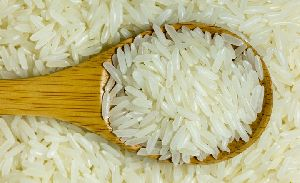
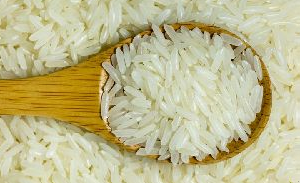
magnify

diff --git a/src/components/ImageMagnifier.js b/src/components/ImageMagnifier.js
@@ -1,33 +1,101 @@
-import React, { useEffect, useRef, useState } from 'react'
+import React, { useEffect} from 'react'
 
-export default function ImageMagnifier({ imageUrl, zoomFactor = 2 }) {
+
+
+export default function ImageMagnifier() {
     
+  // const handleMouseEnter = (event) => {
+  //   const image = event.target;
+  //   image.style.transform = `scale(${magnifyScale})`;
+  // };
 
+  // const handleMouseLeave = (event) => {
+  //   const image = event.target;
+  //   image.style.transform = 'scale(1)';
+  // };
 
+  // const [isMagnified, setMagnified] = useState(false);
+  // const [cursorPosition, setCursorPosition] = useState({ x: 0, y: 0 });
 
-    const [cursorPosition, setCursorPosition] = useState({ x: 0, y: 0 });
-    const imageRef = useRef(null);
-    const magnifierRef = useRef(null);
+  // const handleMouseMove = (e) => {
+  //   setCursorPosition({ x: e.nativeEvent.offsetX, y: e.nativeEvent.offsetY });
+  // };
+
+  // const handleMouseEnter = () => {
+  //   setMagnified(true);
+  // };
+
+  // const handleMouseLeave = () => {
+  //   setMagnified(false);
+  // };
+
+    // const [cursorPosition, setCursorPosition] = useState({ x: 0, y: 0 });
+    // const imageRef = useRef(null);
+    // const magnifierRef = useRef(null);
   
-    const handleMouseMove = (e) => {
-      const { left, top, width, height } = imageRef.current.getBoundingClientRect();
-      const { clientX, clientY } = e;
+    // const handleMouseMove = (e) => {
+    //   const { left, top, width, height } = imageRef.current.getBoundingClientRect();
+    //   const { clientX, clientY } = e;
   
-      const x = ((clientX - left) / width) * 100;
-      const y = ((clientY - top) / height) * 100;
+    //   const x = ((clientX - left) / width) * 100;
+    //   const y = ((clientY - top) / height) * 100;
   
-      setCursorPosition({ x, y });
+    //   setCursorPosition({ x, y });
   
-      const magnifier = magnifierRef.current;
-      magnifier.style.backgroundPosition = `-${x * zoomFactor}% -${y * zoomFactor}%`;
-    };
+    //   const magnifier = magnifierRef.current;
+    //   magnifier.style.backgroundPosition = `-${x * zoomFactor}% -${y * zoomFactor}%`;
+    // };
   
 
-
+    // const handleMouseMove = (e) => {
+    //   const glass = magnifyGlassRef.current;
+    //   const img = e.currentTarget;
+    //   const posX = e.nativeEvent.offsetX;
+    //   const posY = e.nativeEvent.offsetY;
+    //   const ratio = 2; // Adjust the magnification ratio as needed
+  
+    //   const bgPosX = -posX * ratio;
+    //   const bgPosY = -posY * ratio;
+  
+    //   glass.style.backgroundImage = `url('${img.src}')`;
+    //   glass.style.backgroundPosition = `${bgPosX}px ${bgPosY}px`;
+    //   glass.style.backgroundSize = `${img.width * ratio}px ${img.height * ratio}px`;
+    // };
 
   return (
   <>
-     <div className="image-magnifier-container">
+ {/* <div className="magnify-container" onMouseMove={handleMouseMove}>
+      <img src={require("../imgs/basmati.png")} alt="Product" className="product-image" />
+      <div ref={magnifyGlassRef} className="magnify-glass"></div>
+    </div> */}
+  {/* <div
+      className="magnify-image-container"
+      onMouseMove={handleMouseMove}
+      onMouseEnter={handleMouseEnter}
+      onMouseLeave={handleMouseLeave}
+    >
+      <img src={require("../imgs/basmati.png")}  className="magnify-image" />
+
+      {isMagnified && (
+        <div
+          className="magnify-glass"
+          style={{
+            backgroundPosition: `-${cursorPosition.x * 2}px -${cursorPosition.y * 2}px`,
+          }}
+        />
+      )}
+    </div> */}
+        {/* <div className="magnify-image-container">
+      <img
+        src={require("../imgs/basmati.png")}
+        alt="Magnify Image"
+        className="magnify-image"
+        onMouseEnter={handleMouseEnter}
+        onMouseLeave={handleMouseLeave}
+      />
+    </div> */}
+
+     {/* <div className="image-magnifier-container">
       <div
         className="image-magnifier"
         style={{ backgroundImage: `url(${imageUrl})` }}
@@ -42,7 +110,7 @@ export default function ImageMagnifier({ imageUrl, zoomFactor = 2 }) {
         }}
         ref={magnifierRef}
       />
-    </div>
+    </div> */}
   </>
   )
 }

diff --git a/src/components/Basmatirice.js b/src/components/Basmatirice.js
@@ -1,5 +1,6 @@
 import React, { useState } from "react";
 import { useEffect } from "react";
+import ReactImageMagnify from 'react-image-magnify';
 
 import PhoneInput from 'react-phone-input-2';
 import 'react-phone-input-2/lib/style.css';
@@ -14,6 +15,9 @@ import { Link } from "react-router-dom";
 import { MdOutlineKeyboardArrowRight } from "react-icons/md";
 
 export default function Basmatirice(props) {
+ 
+//  $('#zoom_01').elevateZoom(); 
+
   const slider = [
     { 
     link : '/basmatirice',
@@ -201,6 +205,8 @@ export default function Basmatirice(props) {
 
       {/* Basmati rice  */}
 
+      {/* <img id="zoom_01" src={require("../imgs/basmati.png")} data-zoom-image={require("../imgs/basmatilarge.png")}/> */}
+
       <div className="container"> 
         <div className="main-basmati-box mt-4">
           <div className="row row-box">
@@ -210,8 +216,26 @@ export default function Basmatirice(props) {
             <div className="zoom-gallery-slider active">
             <div className="magic-zoom">
             <figure className="m-z-figure">
-        
-            <img src={props.img} alt="" className="img-fluid" style={{width:props.width}}/>
+            <ReactImageMagnify style={{width:props.width}} {...{
+    smallImage: {
+      className:'big',
+        alt: 'Wristwatch by Ted Baker London',
+        isFluidWidth: true,
+        src: [props.img],
+        width:1000
+      
+      
+    },
+    largeImage: {
+      className:'small',
+        src:[props.img],
+        width: 500,
+        height: 300
+    },
+    enlargedImagePosition:true,
+    isEnlargedImagePortalEnabledForTouch:true
+}} />
+            {/* <img src={props.img} alt="" className="img-fluid" style={{width:props.width}}/> */}
             {/* <span id="lens"></span> */}
             </figure>
             

diff --git a/src/css/style.css b/src/css/style.css
@@ -15,6 +15,28 @@
 a{
     text-decoration: none !important;
 }
+.magnify-container {
+  position: relative;
+  cursor: zoom-in;
+}
+
+.product-image {
+  width: 300px; /* Set the desired width of your product image */
+  height: auto;
+}
+
+.magnify-glass {
+  position: absolute;
+  border: 3px solid #000;
+  border-radius: 50%;
+  pointer-events: none;
+  display: none;
+}
+
+.magnify-container:hover .magnify-glass {
+  display: block;
+}
+
 * {
 margin: 0;
 padding: 0;
@@ -303,7 +325,9 @@ body{
 /* Second Page */
 
 /* First box */
-
+figure.m-z-figure img {
+  z-index: 11;
+}
 .main-basmati-box
 {
   box-shadow: 0 0 10px rgba(121, 120, 120, 0.67);
@@ -351,7 +375,7 @@ justify-content: center;
 } */
 figure.m-z-figure{
   /* overflow: hidden; */
-  /* position: relative; */
+  position: relative;
   margin: 0 !important;
   /* perspective: 300px;
   transform-style: preserve-3d;
@@ -370,6 +394,7 @@ figure.m-z-figure{
 }
 figure.m-z-figure img{
   position: relative;
+  /* left: 100%; */
 }
 #lens{
   width: 100px;
@@ -379,7 +404,30 @@ figure.m-z-figure img{
   position: absolute;
   left: 0;
   top: 0;
+}
 
+  figure.m-z-figure:nth-child(4){
+    overflow: hidden;
+    position: absolute;
+    top: 0px;
+    left: 10%;
+    margin-left: 10px;
+    border: 1px solid rgb(214, 214, 214);
+    width: 392px;
+    height: 239px;
+    opacity: 1;
+    transition: opacity 300ms ease-in 0s;
+    pointer-events: none;
+}
+
+.big{
+  border: 1px solid red;
+}
+.small{
+  width: 1000px !important;
+  height: 100px;
+  position: absolute;
+  left:0px;
 }
 .zoom-gallery:hover .m-z-figure1{
   display: block !important;

diff --git a/src/App.js b/src/App.js
@@ -144,7 +144,7 @@ function App() {
       <Routes>
       
         <Route path="/" element={<Products1/>} />
-        <Route path="/hellow" element={<ImageMagnifier imageUrl={dat} zoomFactor={3}/>} />
+        <Route path="/hellow" element={<ImageMagnifier/>} />
 
 
 
